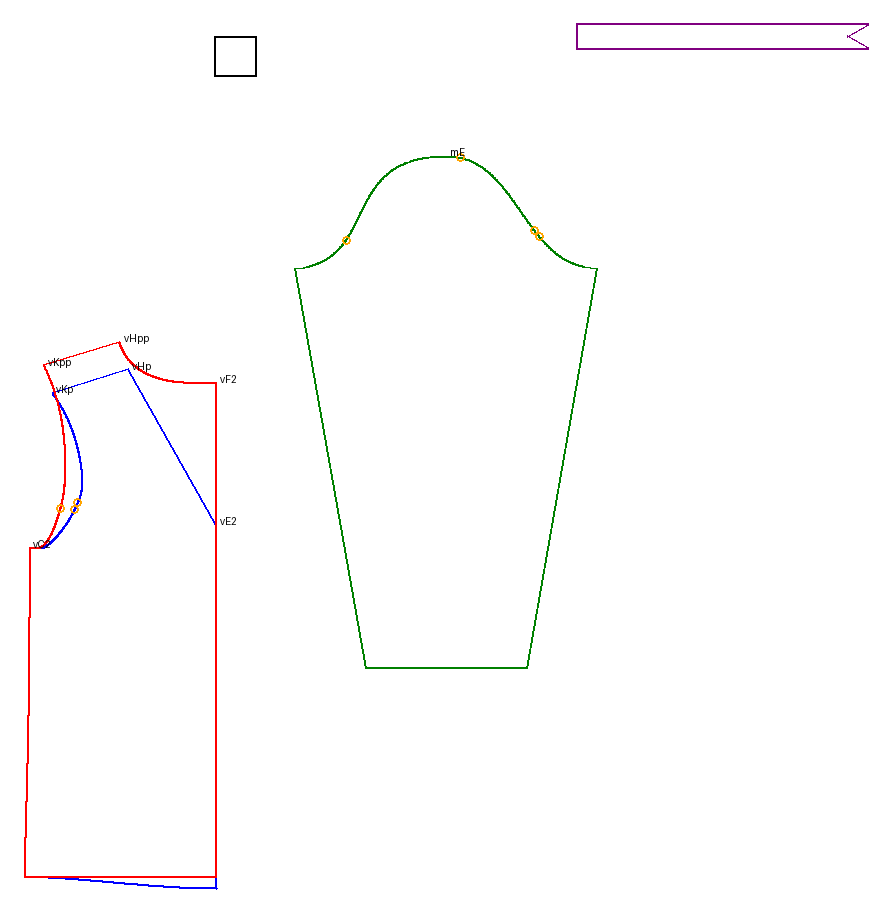
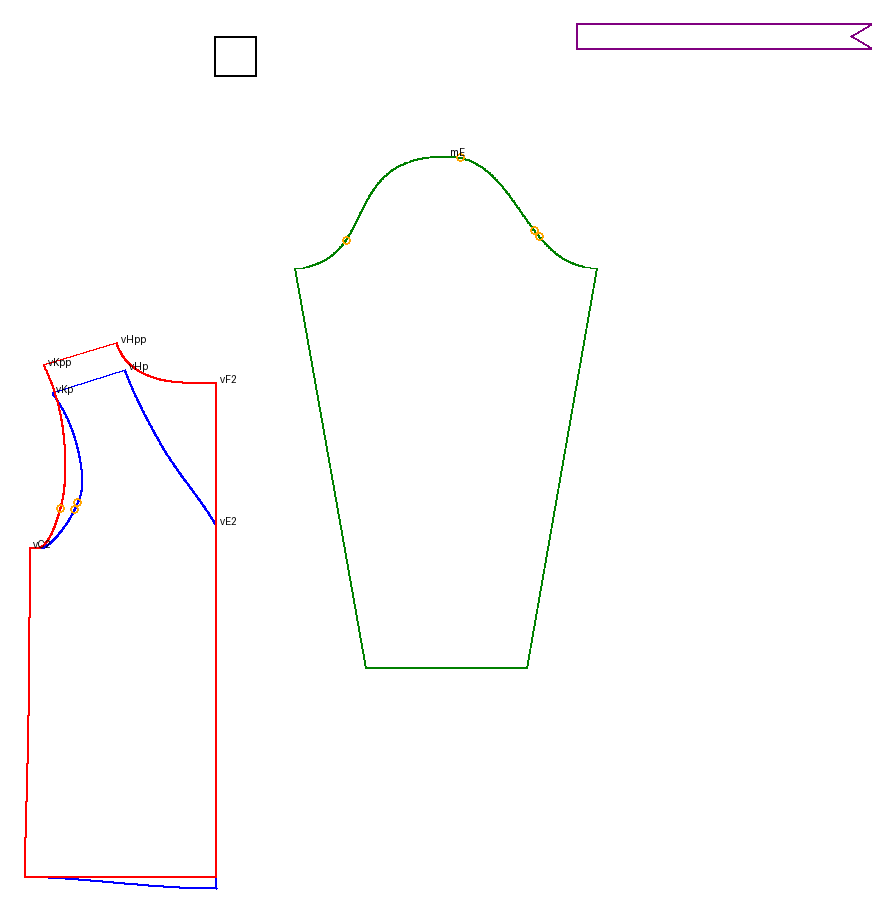
Creuse légèrement l'encolure V du haut de pyjama, comme sur le schéma du livre
Claude-Session: https://claude.ai/code/session_01DPrZf8Hq4Tcp1FfYAAxdeY

diff --git a/patrons/haut_pyjama.etapes.md b/patrons/haut_pyjama.etapes.md
@@ -47,7 +47,8 @@ manche). Côté = vers la droite du fond (C1, D1…), « extérieur » = en s'é
 10. vH : sur H→K, HvH = `#degag_epaule`
 11. vF : sur l'axe F→A, FvF = `#desc_dos` ; vE : sur l'axe E→A, EvE = `#desc_devant`
 12. Encolure dos : platitude perpendiculaire au milieu dos depuis vF, puis courbe jusqu'à vH
-13. Encolure devant : droite vH → vE
+13. Encolure devant : courbe vH2 → vVc → vE2, creusée de `#creux_v` = 1 vers le côté à
+    mi-longueur (lu sur le schéma de l'encolure V, fig. 1 ; décision 9)
 14. Retirer la largeur de bande (décision 3) : 3 / 2 / 13 = ligne finie ; lignes de couture décalées
     de `#larg_bande` vers l'extérieur : vH2 sur H→K à `#degag_epaule + #larg_bande` de H ; vF2 sur
     l'axe à `#desc_dos + #larg_bande` de F ; vE2 = intersection de l'axe et de la parallèle à vH–vE
@@ -120,10 +121,10 @@ Valeurs T44 mesurées hors Seamly :
 | Largeur de manche AB | 37,54 (33,32 sur le fond) |
 | Tête de manche | 49,60 |
 | **Embu** | **0,89** (0,31 avant la décision 8) |
-| Épaules devant / dos | 9,93 / 9,93 |
-| Demi-encolure (couture) / encolure totale | 36,54 / 73,08 |
+| Épaules devant / dos | 9,57 / 9,57 |
+| Demi-encolure (couture) / encolure totale | 36,96 / 73,92 |
 | V : fini / couture sous E | 13,00 / 16,04 |
-| Recul du bout de bande | 2,65 |
+| Recul du bout de bande | 2,57 (tangente de la courbe en vE2) |
 | Côté | 40,98 (commun devant / dos) |
 
 Réglages d'embu évalués (poignées recalculées à chaque fois) : creux G3 1 → 1,5 : 0,62 ;
@@ -158,6 +159,11 @@ Réglages d'embu évalués (poignées recalculées à chaque fois) : creux G3 1 
 - 2026-10-07 : décision 8 (réglage d'embu, suite de la décision 7) → creux de la tête côté dos
   en G3 porté de 1 à 2 (`#creux_tete_dos`) : embu 0,89. Tour d'emmanchure compté platitudes
   comprises (proposé avec ce réglage, non contesté).
+
+- 2026-10-07 : décision 9 → encolure devant légèrement courbe (remarque de l'utilisateur,
+  confirmée par le schéma fig. 1 : creux ≈ 1 cm à mi-longueur, `#creux_v`). vHp = intersection
+  de la parallèle à 1,8 avec cette courbe ; bout de bande calculé sur la tangente en vE2 (point
+  vTg, angle recopié de la poignée : à refaire si la poignée est déplacée dans Seamly).
 
 ## Questions ouvertes
 1. ~~Fichier cible~~ : tranchée (voir Décisions).
